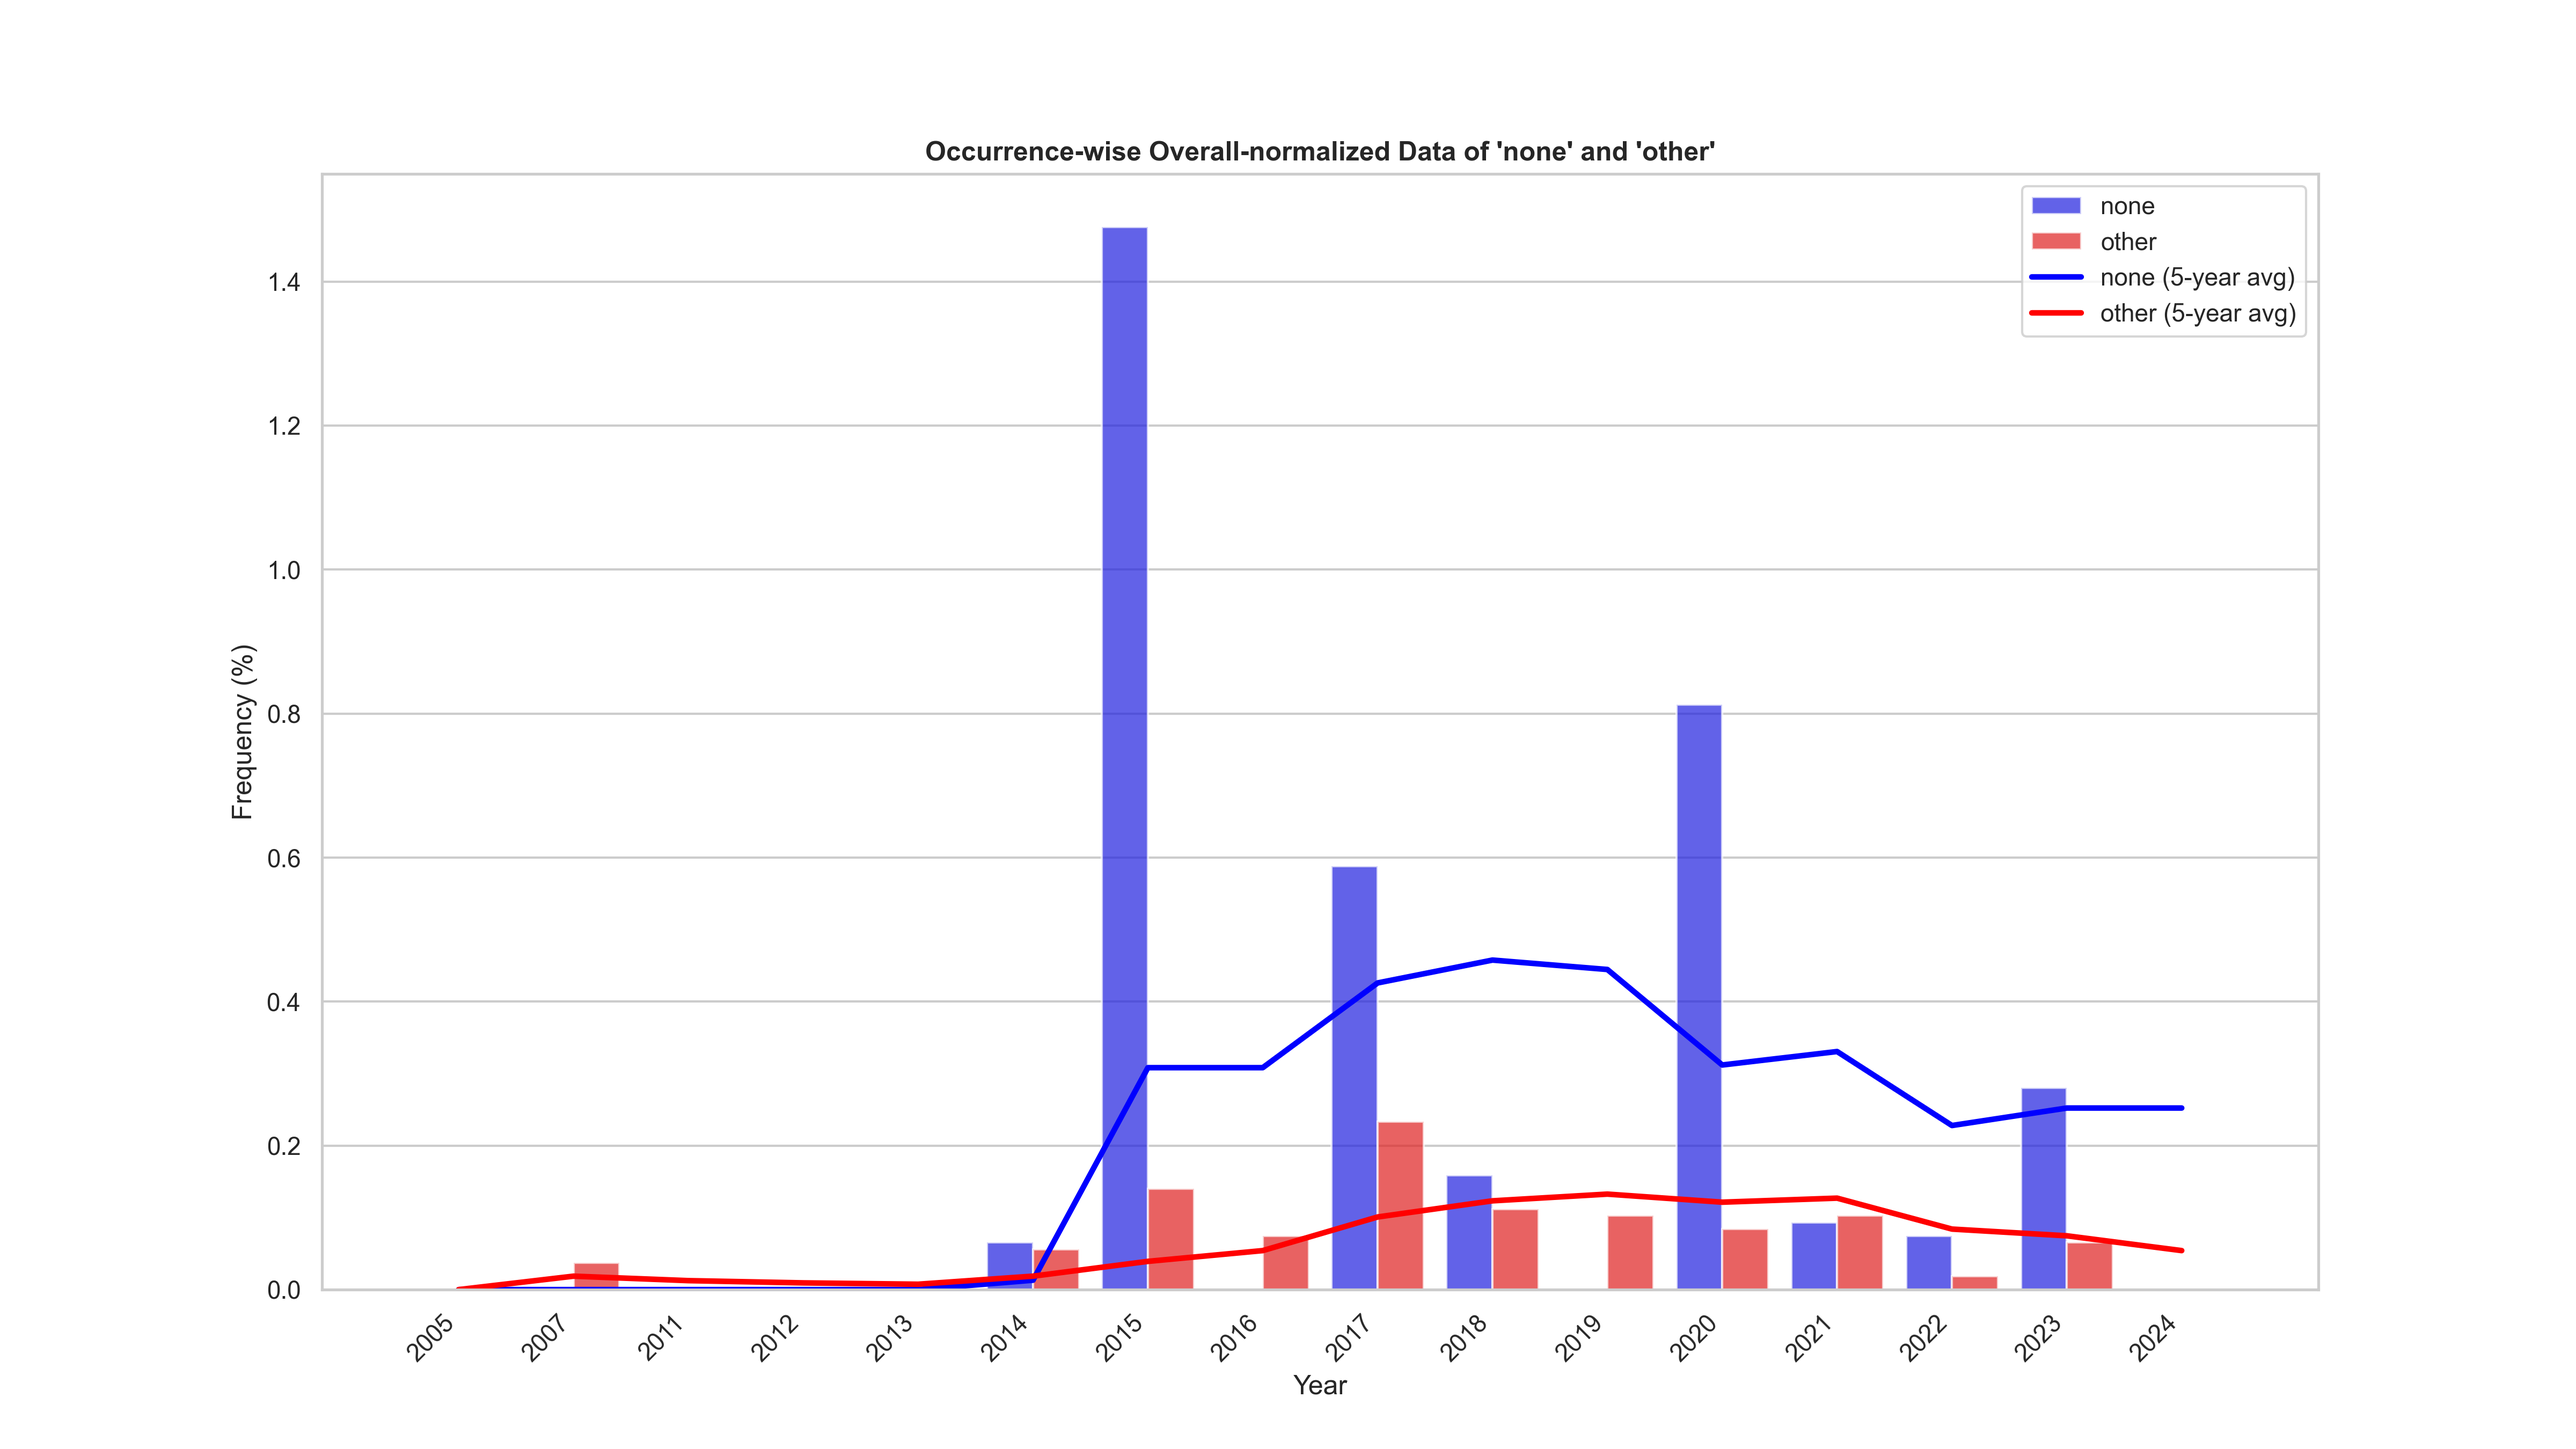
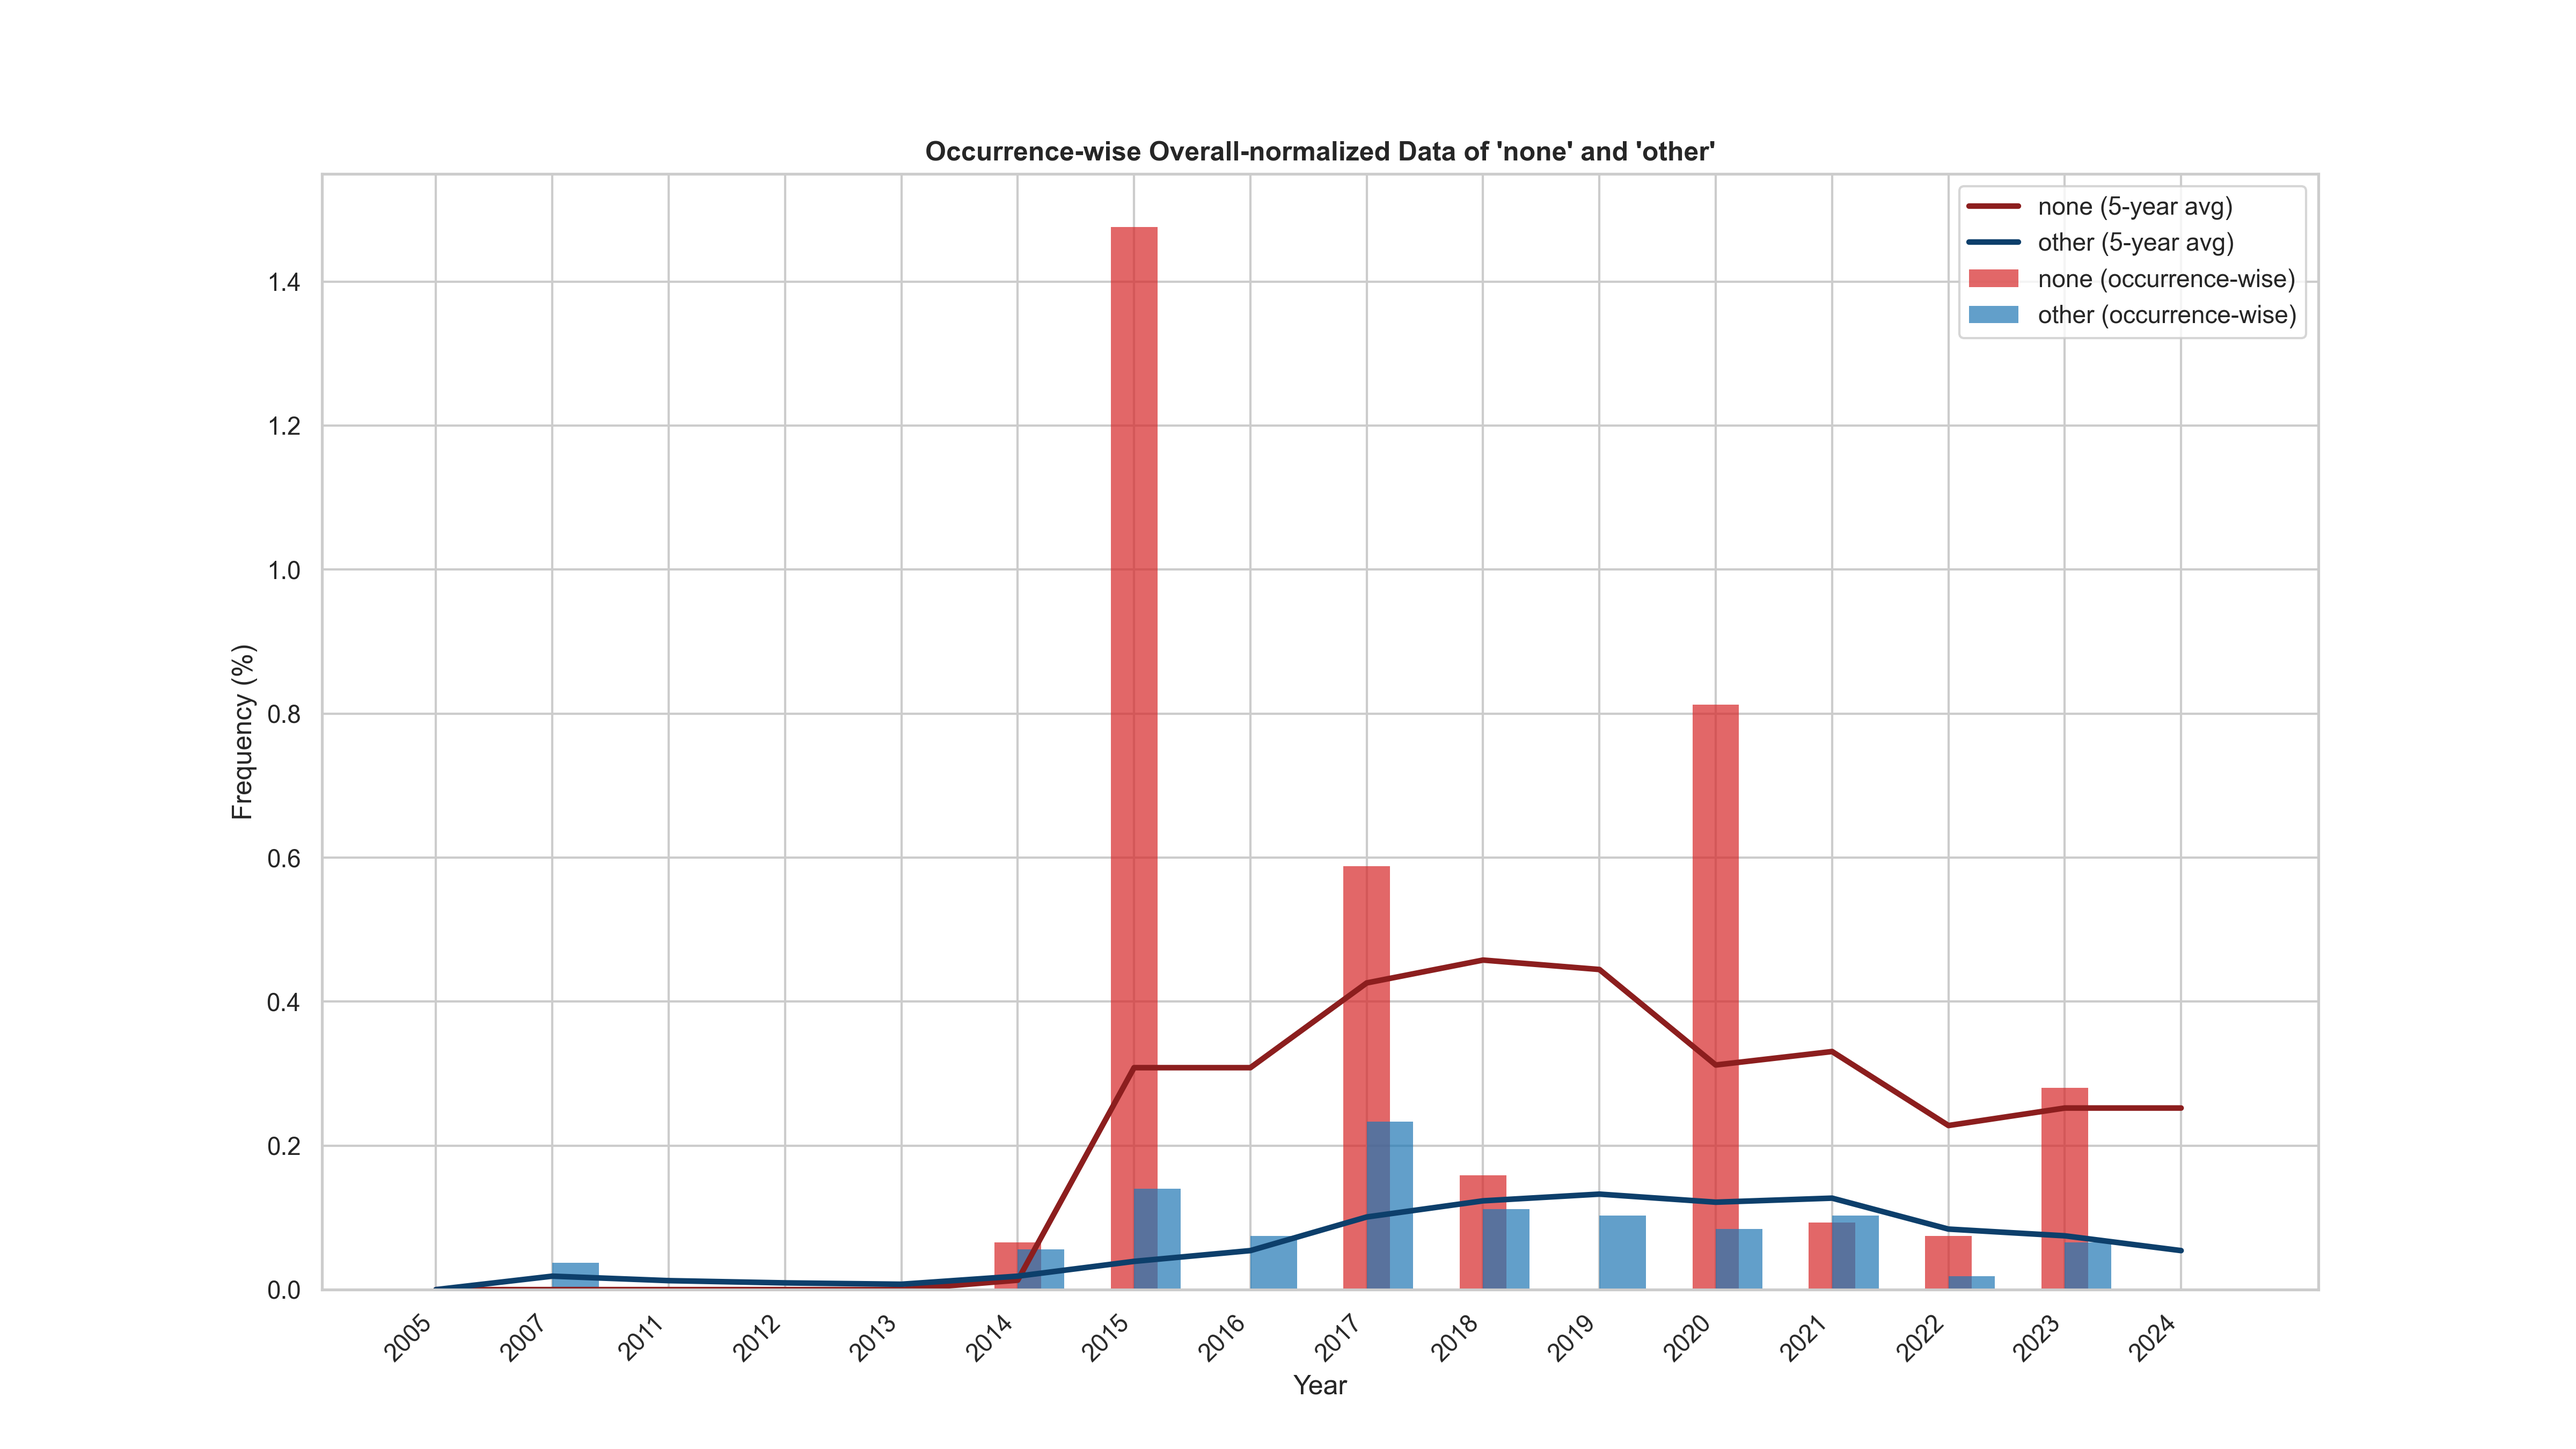
non-ontouml combined analyses created.

Changed region(s): [[0.1562, 0.1556, 0.8438, 0.9333], [0.75, 0.1244, 0.9062, 0.2489]]

diff --git a/src/visualization/non_ontouml_analysis_combined.py b/src/visualization/non_ontouml_analysis_combined.py
@@ -1,0 +1,112 @@
+import os
+import pandas as pd
+import seaborn as sns
+import matplotlib.pyplot as plt
+from loguru import logger
+
+def generate_non_ontouml_combined_visualization(in_dir_path, out_dir_path, file_path_yearly, file_path_overall):
+    # Load occurrence-wise and model-wise data
+    df_occurrence = pd.read_csv(os.path.join(in_dir_path, file_path_yearly))
+    df_modelwise = pd.read_csv(os.path.join(in_dir_path, file_path_overall))
+
+    # Filter the data for the columns you want ('year', 'none', 'other') and make a deep copy
+    df_occurrence = df_occurrence[['year', 'none', 'other']].copy()
+    df_modelwise = df_modelwise[['year', 'none', 'other']].copy()
+
+    # Convert 'none' and 'other' to percentages for both occurrence-wise and model-wise data
+    df_occurrence['none'] = df_occurrence['none'] * 100
+    df_occurrence['other'] = df_occurrence['other'] * 100
+
+    df_modelwise['none'] = df_modelwise['none'] * 100
+    df_modelwise['other'] = df_modelwise['other'] * 100
+
+    # Sort both DataFrames by year (just in case)
+    df_occurrence = df_occurrence.sort_values('year')
+    df_modelwise = df_modelwise.sort_values('year')
+
+    # Convert 'year' to string in both DataFrames
+    df_occurrence['year'] = df_occurrence['year'].astype(str)
+    df_modelwise['year'] = df_modelwise['year'].astype(str)
+
+    # Create the plot
+    fig, ax1 = plt.subplots(figsize=(16, 9))  # Adjusted figure size for better layout
+
+    # Define specific hex colors for 'none' and 'other' bars
+    bar_colors = {'none': '#d62728', 'other': '#1f77b4'}  # Red for 'none' and blue for 'other' bars
+
+    # Define specific hex colors for 'none' and 'other' lines (darker shades for higher contrast)
+    line_colors = {'none': '#8c1e1e', 'other': '#0d3f6b'}  # Darker red for 'none' and darker blue for 'other' lines
+
+    # Barplot for occurrence-wise frequencies ('none' and 'other') with bars side by side
+    ax1.bar(df_occurrence['year'], df_occurrence['none'], color=bar_colors['none'], alpha=0.7,
+            label='none (occurrence-wise)', width=0.4, align='center')
+    ax1.bar(df_occurrence['year'], df_occurrence['other'], color=bar_colors['other'], alpha=0.7,
+            label='other (occurrence-wise)', width=0.4, align='edge')
+
+
+
+    # Set labels for the first y-axis (occurrence-wise)
+    ax1.set_xlabel('Year')
+    ax1.set_ylabel('Occurrence-wise Frequency (%)', color='black')
+    ax1.tick_params(axis='y', labelcolor='black')
+    ax1.set_ylim(0, max(df_occurrence[['none', 'other']].max()) * 1.1)  # Set y-limit for occurrence-wise
+
+    # Move gridlines behind the bars
+    ax1.set_axisbelow(True)
+
+    # Create a second y-axis for model-wise frequencies
+    ax2 = ax1.twinx()
+
+    # Plot model-wise frequencies ('none' and 'other') as lines without adding extra legends
+    sns.lineplot(x='year', y='none', data=df_modelwise, ax=ax2, color=line_colors['none'], linewidth=2.5, legend=False)
+    sns.lineplot(x='year', y='other', data=df_modelwise, ax=ax2, color=line_colors['other'], linewidth=2.5,
+                 legend=False)
+
+    # Set labels for the second y-axis (model-wise)
+    ax2.set_ylabel('Model-wise Frequency (%)', color='black')
+    ax2.tick_params(axis='y', labelcolor='black')
+    ax2.set_ylim(0, max(df_modelwise[['none', 'other']].max()) * 1.1)  # Set y-limit for model-wise
+
+    # Align both y-axes to have their zero points match
+    ax1.set_ylim(0, ax1.get_ylim()[1])  # Ensure both start at zero
+    ax2.set_ylim(0, ax2.get_ylim()[1])
+
+    # Improve readability by rotating x-axis labels
+    plt.xticks(rotation=45, ha='right')
+
+    # Explicitly control the gridlines
+    ax1.grid(axis='x', color='lightgray')  # Only vertical gridlines on the primary axis (x-axis)
+    ax2.grid(False)  # Disable gridlines on the secondary axis (y-axis)
+
+    # Build the title
+    title = f"Combined Occurrence-wise and Model-wise Data for 'none' and 'other'"
+
+    # Generate a figure name from the file_path (remove extension and append .png)
+    fig_name = os.path.splitext(file_path_yearly)[0] + "_combined_visualization.png"
+
+    # Add title
+    plt.title(title, fontweight='bold')
+
+    # Plot model-wise frequencies ('none' and 'other') as lines without adding extra legends
+    line_none, = ax2.plot(df_modelwise['year'], df_modelwise['none'], color=line_colors['none'], linewidth=2.5,
+                          label='none (model-wise)')
+    line_other, = ax2.plot(df_modelwise['year'], df_modelwise['other'], color=line_colors['other'], linewidth=2.5,
+                           label='other (model-wise)')
+
+    # Combine legends for both occurrence-wise and model-wise data
+    handles1, labels1 = ax1.get_legend_handles_labels()  # Handles for the bars (occurrence-wise)
+    handles2 = [line_none, line_other]  # Manually get handles for the lines (model-wise)
+
+    # Display the combined legend in the top left corner
+    ax1.legend(handles1 + handles2, labels1 + ['none (model-wise)', 'other (model-wise)'], loc='upper left')
+
+    # Ensure output directory exists
+    if not os.path.exists(out_dir_path):
+        os.makedirs(out_dir_path)
+
+    # Save the figure
+    plt.savefig(os.path.join(out_dir_path, fig_name), dpi=300)
+    logger.success(f"Figure {fig_name} successfully saved in {out_dir_path}.")
+
+    # Close the plot to free memory
+    plt.close()

diff --git a/src/visualization/non_ontouml_analysis_visualization.py b/src/visualization/non_ontouml_analysis_visualization.py
@@ -31,33 +31,40 @@ def generate_non_ontouml_visualization(in_dir_path, out_dir_path, file_path):
     df_filtered['other_moving_avg'] = df_filtered['other'].rolling(window=5, min_periods=1).mean()
 
     # Reshape the DataFrame for Seaborn plotting
-    df_melted = df_filtered.melt(id_vars='year', value_vars=['none', 'other'], var_name='Element',
+    df_filtered.melt(id_vars='year', value_vars=['none', 'other'], var_name='Element',
                                  value_name='Frequency')
 
+    # Define specific hex colors for 'none' and 'other' bars
+    bar_colors = {'none': '#d62728', 'other': '#1f77b4'}  # Red for 'none' and blue for 'other' bars
+
+    # Define specific hex colors for 'none' and 'other' lines (darker shades for higher contrast)
+    line_colors = {'none': '#8c1e1e', 'other': '#0d3f6b'}  # Darker red for 'none' and darker blue for 'other' lines
+
     # Create the plot
-    plt.figure(figsize=(16, 9))  # Adjusted figure size for better layout
+    fig, ax1 = plt.subplots(figsize=(16, 9))  # Adjusted figure size for better layout
     sns.set(style="whitegrid")
 
-    # Define specific colors for 'none' and 'other'
-    colors = {'none': 'blue', 'other': 'red'}
+    # Plot 'none' and 'other' bars with manual color application
+    years = df_filtered['year']
 
-    # Barplot with bars side by side (dodge=True ensures side-by-side bars)
-    ax = sns.barplot(x='year', y='Frequency', hue='Element', data=df_melted, dodge=True, alpha=0.7, palette=colors)
+    # Manually plot the 'none' bars
+    ax1.bar(years, df_filtered['none'], color=bar_colors['none'], alpha=0.7, label='none (occurrence-wise)', width=0.4,
+            align='center', edgecolor='none')
 
-    # Plot 'none' moving average with the same blue color and label for the legend
-    sns.lineplot(x='year', y='none_moving_avg', data=df_filtered, color='blue', linewidth=2.5,
+    # Manually plot the 'other' bars
+    ax1.bar(years, df_filtered['other'], color=bar_colors['other'], alpha=0.7, label='other (occurrence-wise)',
+            width=0.4, align='edge', edgecolor='none')
+
+    # Plot 'none' moving average with different color for the line
+    sns.lineplot(x='year', y='none_moving_avg', data=df_filtered, ax=ax1, color=line_colors['none'], linewidth=2.5,
                  label='none (5-year avg)')
 
-    # Plot 'other' moving average with the same red color and label for the legend
-    sns.lineplot(x='year', y='other_moving_avg', data=df_filtered, color='red', linewidth=2.5,
+    # Plot 'other' moving average with different color for the line
+    sns.lineplot(x='year', y='other_moving_avg', data=df_filtered, ax=ax1, color=line_colors['other'], linewidth=2.5,
                  label='other (5-year avg)')
 
     # Improve readability by rotating x-axis labels and reducing the number of ticks
     plt.xticks(rotation=45, ha='right')
-
-    # Adjust number of x-ticks for large datasets
-    if len(df_filtered['year'].unique()) > 20:  # Arbitrary limit, adjust as needed
-        ax.set_xticks(ax.get_xticks()[::2])  # Show every second year
 
     # Determine if the file is model-wise or occurrence-wise and yearly or overall normalized
     if 'modelwise' in file_path:
@@ -80,6 +87,11 @@ def generate_non_ontouml_visualization(in_dir_path, out_dir_path, file_path):
     plt.xlabel('Year')
     plt.ylabel('Frequency (%)')  # If the values represent percentages; otherwise, remove (%)
     plt.title(title, fontweight='bold')
+
+    # Ensure both vertical and horizontal gridlines are displayed
+    ax1.grid(True, which='both', axis='both')  # Ensure both x and y gridlines are shown
+    # Move gridlines behind the bars
+    ax1.set_axisbelow(True)
 
     # Ensure output directory exists
     if not os.path.exists(out_dir_path):

diff --git a/main_non_ontouml_analysis.py b/main_non_ontouml_analysis.py
@@ -2,6 +2,7 @@ import os
 
 from icecream import ic
 
+from src.visualization.non_ontouml_analysis_combined import generate_non_ontouml_combined_visualization
 from src.visualization.non_ontouml_analysis_visualization import generate_non_ontouml_visualization
 
 if __name__ == "__main__":
@@ -10,12 +11,19 @@ if __name__ == "__main__":
     analyses = ["cs_ontouml_no_classroom_f", "rs_ontouml_no_classroom_f"]
     input_files = ["temporal_overall_modelwise_stats.csv","temporal_overall_stats.csv","temporal_yearly_modelwise_stats.csv","temporal_yearly_stats.csv"]
 
+    combined_in_files = [("temporal_overall_stats.csv", "temporal_overall_modelwise_stats.csv"),
+                         ("temporal_yearly_stats.csv", "temporal_yearly_modelwise_stats.csv")]
+
     for analysis in analyses:
 
         output_dir_path = os.path.join(base_out_dir, analysis, "non_ontouml")
         output_dir_path = os.path.normpath(output_dir_path)
 
+        input_file_path = os.path.join(base_in_dir, analysis)
+
+        for combined_in_file_ow, combined_in_file_mw  in combined_in_files:
+            generate_non_ontouml_combined_visualization(input_file_path, output_dir_path, combined_in_file_ow, combined_in_file_mw)
+
         for input_file in input_files:
-            input_file_path = os.path.join(base_in_dir, analysis)
             generate_non_ontouml_visualization(input_file_path, output_dir_path, input_file)
 
